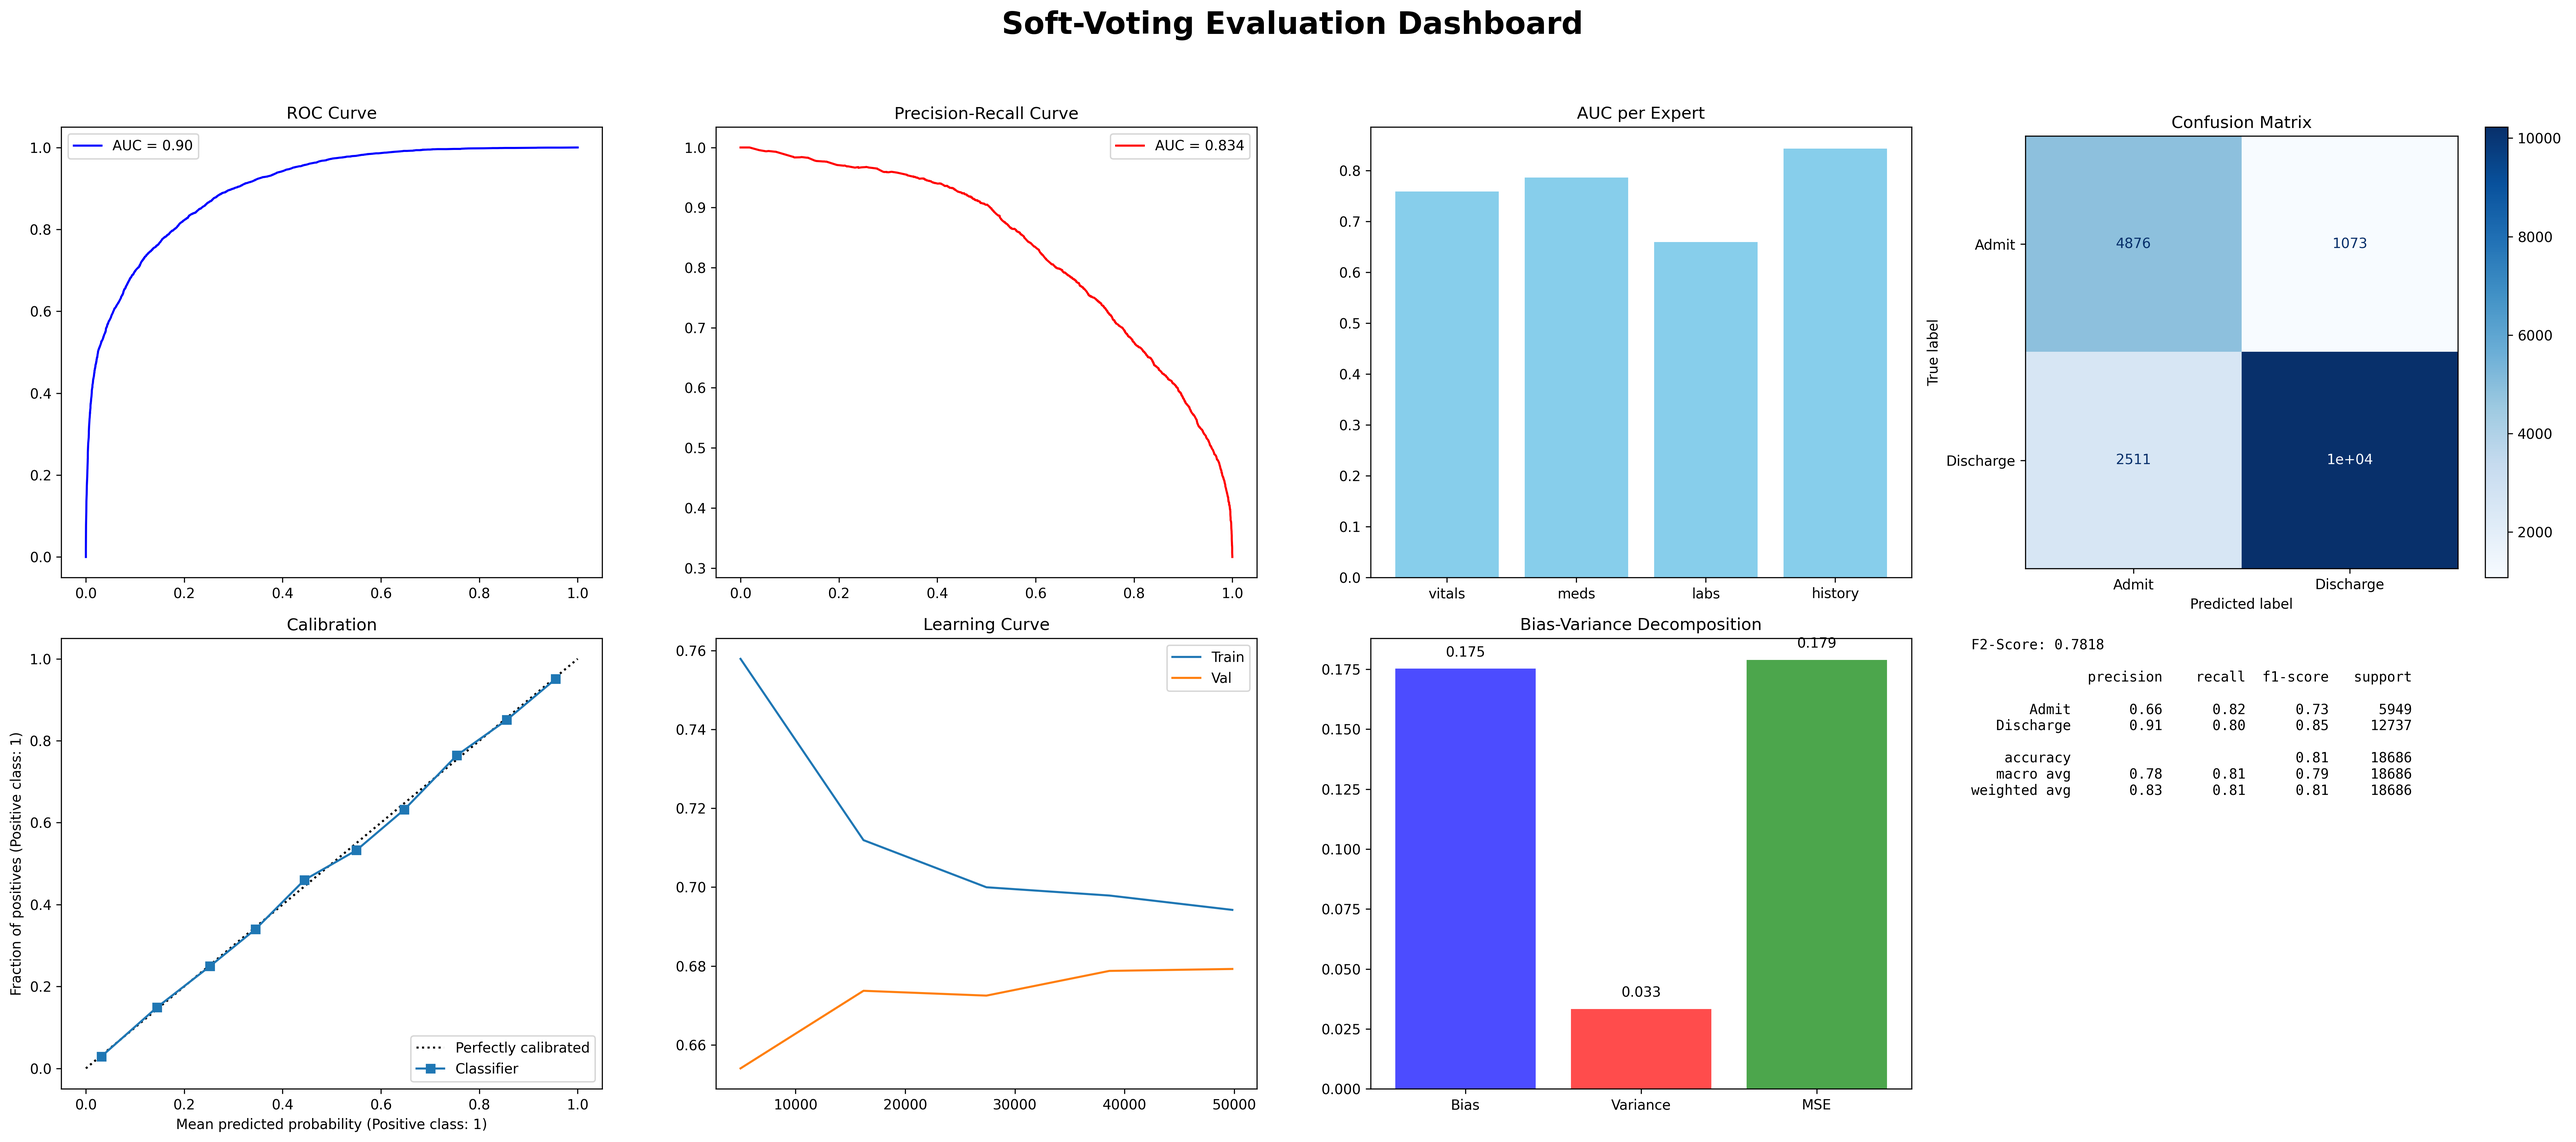
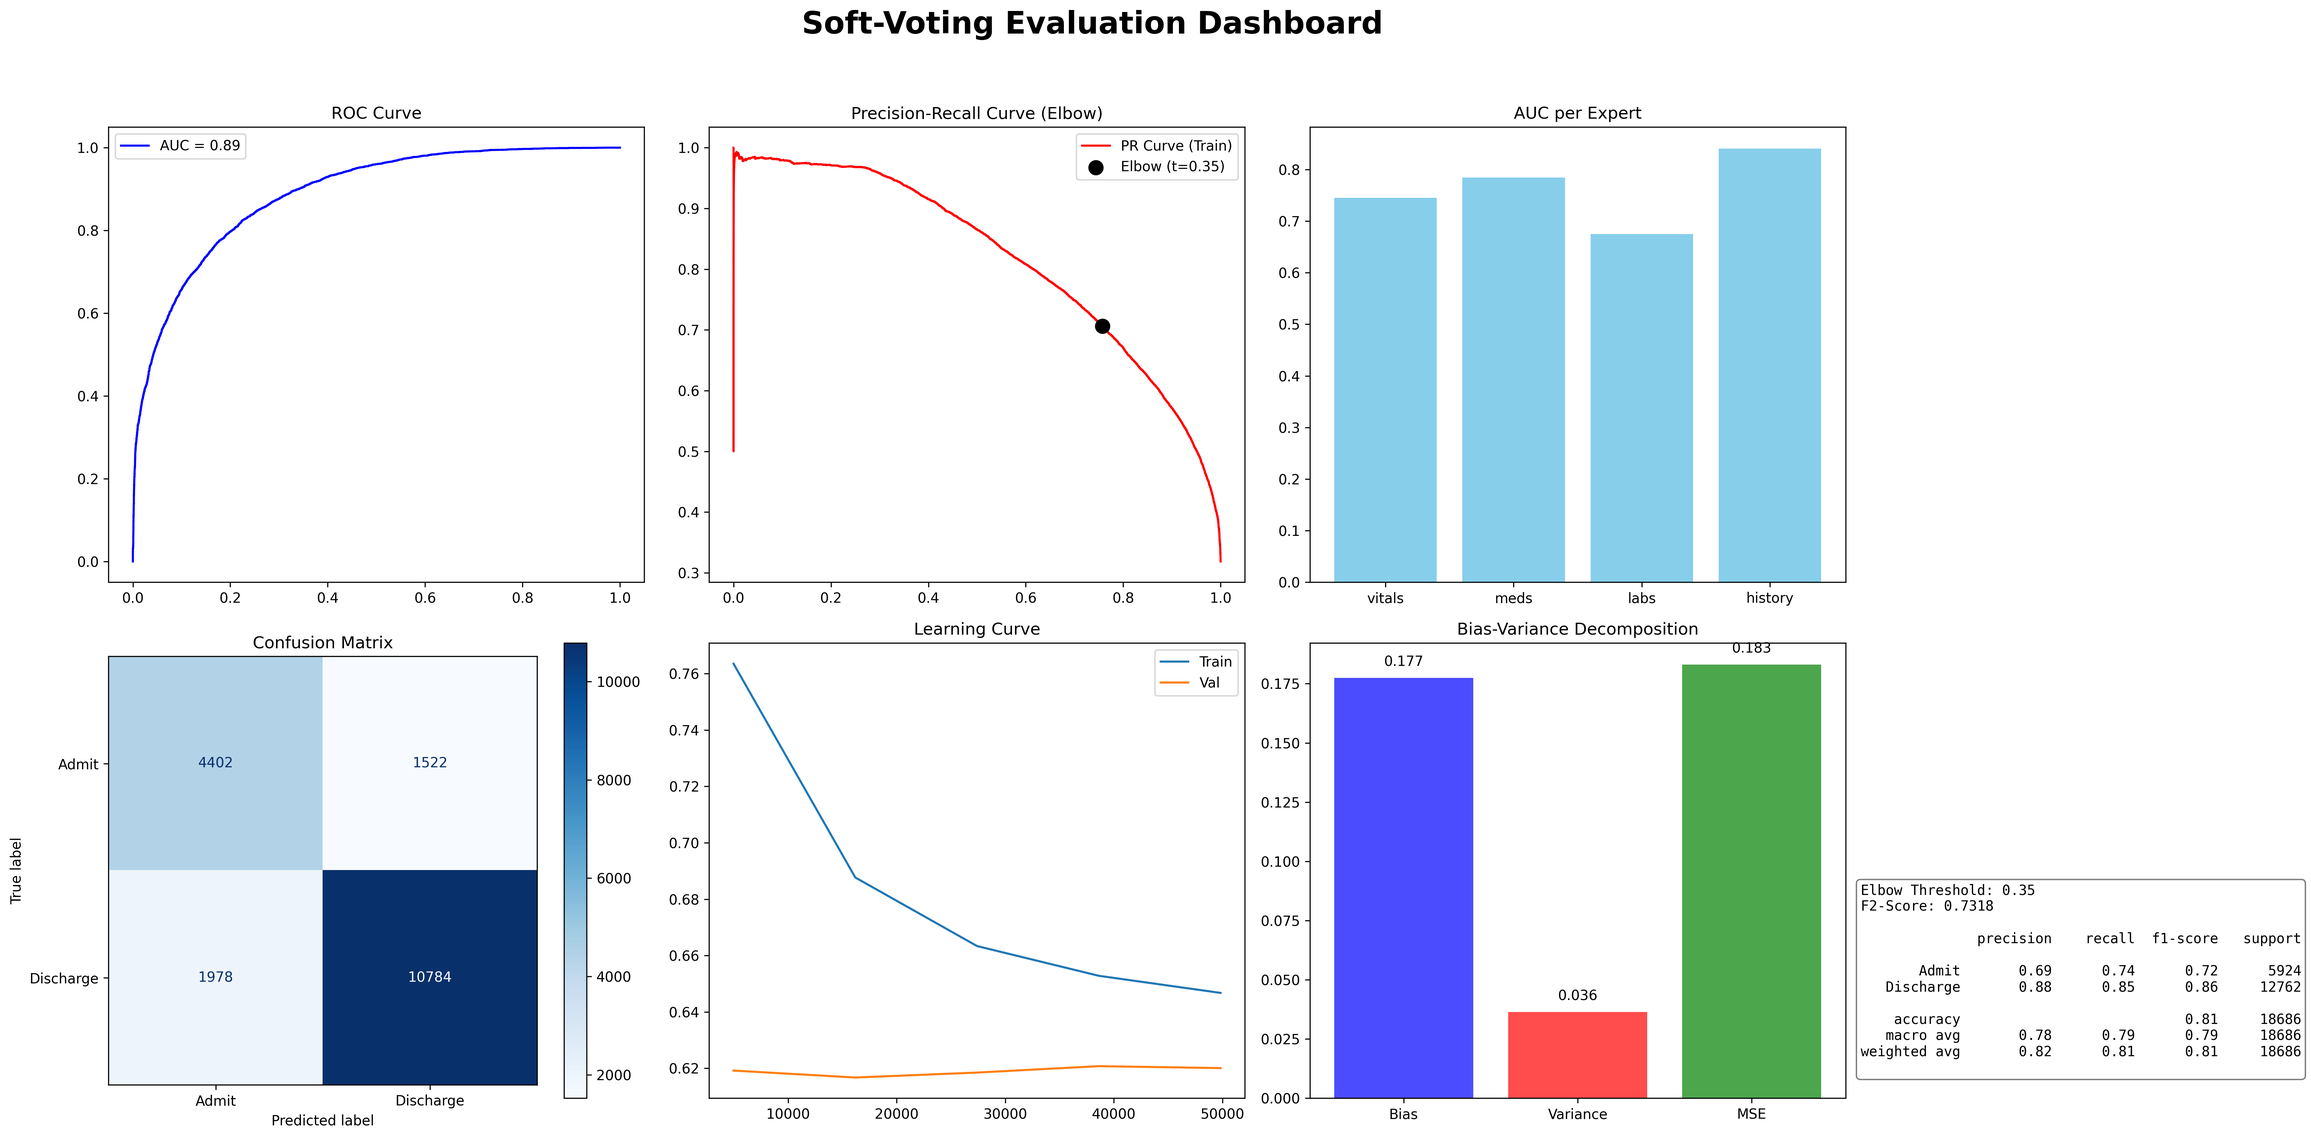
Update the soft voting classifier with new logic

diff --git a/scripts/triage_soft_voting.py b/scripts/triage_soft_voting.py
@@ -14,7 +14,6 @@ from sklearn.model_selection import train_test_split, RandomizedSearchCV, learni
 from sklearn.metrics import (roc_curve, auc, precision_recall_curve, fbeta_score, 
                              classification_report, confusion_matrix, roc_auc_score, make_scorer,
                              ConfusionMatrixDisplay)
-from sklearn.calibration import CalibrationDisplay, CalibratedClassifierCV
 from catboost import CatBoostClassifier
 from mlxtend.evaluate import bias_variance_decomp
 
@@ -28,34 +27,36 @@ df = pd.read_csv('data/subset.csv')
 X = df.drop('disposition', axis=1) 
 y = df['disposition']
 
+# Split the data first to avoid leakage in encoding and imputation
+X_train_raw, X_test_raw, y_train_raw, y_test_raw = train_test_split(X, y, test_size=0.2, random_state=42)
+
 # Then i transformed my target value into 0/1 where 0 is "Admit" and 1 is "Discharge"
-# Also i transformed every feature into numbers
 label_enc = LabelEncoder()
-y_encoded = label_enc.fit_transform(y)
-df_numeric = pd.get_dummies(X)
+y_train = label_enc.fit_transform(y_train_raw)
+y_test = label_enc.transform(y_test_raw)
 
-# Split the data into 80% training and 20% test 
-# I used stratification in order to have balanced classes for the train/test set
-X_train_raw, X_test_raw, y_train, y_test = train_test_split(
-    df_numeric, y_encoded, test_size=0.2, random_state=42, stratify=y_encoded
-)
+# Also i transformed every feature into numbers - Handling categorical columns properly after split
+X_train_numeric = pd.get_dummies(X_train_raw)
+X_test_numeric = pd.get_dummies(X_test_raw)
+# Ensure both sets have the same columns after get_dummies
+X_test_numeric = X_test_numeric.reindex(columns=X_train_numeric.columns, fill_value=0)
 
-# Handled missing values using median imputation 
-train_median = X_train_raw.median()
-X_train_imputed = X_train_raw.fillna(train_median)
-X_test_imputed = X_test_raw.fillna(train_median)
+# Handled missing values using median imputation based only on training data
+train_median = X_train_numeric.median()
+X_train_imputed = X_train_numeric.fillna(train_median)
+X_test_imputed = X_test_numeric.fillna(train_median)
 
  # Feature Selection: Apply Variance Threshold
 selector = VarianceThreshold(threshold=0.01)
 selector.fit(X_train_imputed)
-X_train_sel = pd.DataFrame(selector.transform(X_train_imputed), columns=X_train_raw.columns[selector.get_support()])
-X_test_sel = pd.DataFrame(selector.transform(X_test_imputed), columns=X_train_raw.columns[selector.get_support()])
+X_train_sel = pd.DataFrame(selector.transform(X_train_imputed), columns=X_train_numeric.columns[selector.get_support()])
+X_test_sel = pd.DataFrame(selector.transform(X_test_imputed), columns=X_train_numeric.columns[selector.get_support()])
 
-# Performed a Random forest in order to get the top 100 features
+# Performed a Random forest in order to get the top 150 features
 rf_selector = RandomForestClassifier(n_estimators=150, random_state=42, n_jobs=-1)
 rf_selector.fit(X_train_sel, y_train)
 importances = pd.Series(rf_selector.feature_importances_, index=X_train_sel.columns)
-top_features = importances.nlargest(100).index.tolist()
+top_features = importances.nlargest(150).index.tolist()
 
 # Split the features into 4 groups based on keywords
 vitals_top = [c for c in top_features if any(w in c.lower() for w in ['vital', 'sbp', 'dbp', 'pulse', 'temp', 'o2', 'hr', 'rr'])]
@@ -79,7 +80,7 @@ base_learners = [
     ('vitals_expert', Pipeline([
         ('sel', ColumnTransformer([('keep', 'passthrough', vitals_idx)], remainder='drop')),
         ('scaler', StandardScaler()), 
-        ('clf', lgb.LGBMClassifier(n_estimators=150, learning_rate=0.05, random_state=42, n_jobs=-1, verbosity=-1,num_leaves=31,reg_lambda=10)) 
+        ('clf', lgb.LGBMClassifier(n_estimators=250, learning_rate=0.05, random_state=42, n_jobs=-1, verbosity=-1,num_leaves=63,reg_lambda=20)) 
     ])),  
     ('meds_expert', Pipeline([
         ('sel', ColumnTransformer([('keep', 'passthrough', meds_idx)], remainder='drop')),
@@ -89,12 +90,12 @@ base_learners = [
     ('labs_expert', Pipeline([
         ('sel', ColumnTransformer([('keep', 'passthrough', labs_idx)], remainder='drop')),
         ('scaler', StandardScaler()),
-        ('clf', CatBoostClassifier(iterations=300, verbose=0,learning_rate=0.05,depth=6 ,thread_count=-1))
+        ('clf', CatBoostClassifier(iterations=400, verbose=0,learning_rate=0.05,depth=6 ,thread_count=-1))
     ])), 
     ('history_expert', Pipeline([
         ('sel', ColumnTransformer([('keep', 'passthrough', history_idx)], remainder='drop')),
         ('scaler', StandardScaler()),
-        ('clf', CatBoostClassifier(iterations=300, verbose=0,learning_rate=0.05,depth=6 ,thread_count=-1))
+        ('clf', CatBoostClassifier(iterations=400, verbose=0,learning_rate=0.05,depth=6 ,thread_count=-1))
     ]))
 ]
 
@@ -117,9 +118,9 @@ f2_scorer = make_scorer(fbeta_score, beta=2, pos_label=0)
 search = RandomizedSearchCV(estimator=Voting_model, param_distributions=param_distributions, 
                             n_iter=7, cv=3, scoring=f2_scorer, verbose=1, n_jobs=-1, random_state=42)
 search.fit(X_train.values, y_train) 
-#Propability Calibration applied isotonic regression to calibrate the predicted propabilities
-calibrated_model = CalibratedClassifierCV(search.best_estimator_, method='isotonic', cv=3)
-calibrated_model.fit(X_train.values, y_train)
+
+# Final model
+final_model = search.best_estimator_
 
 # Bias-Variance Decomposition (mlxtend)
 sample_size = min(5000, len(X_train))
@@ -128,7 +129,7 @@ X_sample = X_train.values[indices]
 y_sample = y_train[indices]
 
 mse, bias, var = bias_variance_decomp(
-    search.best_estimator_, 
+    final_model, 
     X_sample, y_sample, 
     X_test.values, y_test, 
     loss='0-1_loss', num_rounds=10, random_seed=42
@@ -136,59 +137,57 @@ mse, bias, var = bias_variance_decomp(
 
 # Evaluation 
 
-# Extract probalities for the Admit class
-y_prob_admit = calibrated_model.predict_proba(X_test.values)[:, 0]
-# Try 100 thresholds in order to get the one that maximizes f2 score
-thresholds=np.linspace(0,1,100)
-f2_scores = [fbeta_score(y_test, np.where(y_prob_admit > t, 0, 1), beta=1.2, pos_label=0) for t in thresholds]
-best_threshold = thresholds[np.argmax(f2_scores)]
-best_f2_score = max(f2_scores)
-# Sensitivity threshold to prioritize admissions
-y_pred_custom = np.where(y_prob_admit > best_threshold, 0, 1)
-y_test_admit = (y_test == 0).astype(int)
+# Extract probabilities for the Admit class (index 0) from the search result
+y_prob_train_admit = final_model.predict_proba(X_train.values)[:, 0]
+y_prob_test_admit = final_model.predict_proba(X_test.values)[:, 0]
 
-# f2 scorer
+# Elbow method to find optimal threshold
+precision_tr, recall_tr, thresholds_tr = precision_recall_curve(y_train, y_prob_train_admit, pos_label=0)
+distances = np.sqrt((1 - precision_tr)**2 + (1 - recall_tr)**2)
+best_threshold = thresholds_tr[np.argmin(distances)]
+
+# Final predictions using the elbow-optimized threshold
+y_pred_custom = np.where(y_prob_test_admit > best_threshold, 0, 1)
+
+# Metrics for reporting
 f2_admit = fbeta_score(y_test, y_pred_custom, beta=2, pos_label=0)
-# Classification report
 report = classification_report(y_test, y_pred_custom, target_names=label_enc.classes_)
-# Confusion Matrix
 cm = confusion_matrix(y_test, y_pred_custom)
 
-# Learning Curve
+# Learning Curve using the best estimator
 train_sizes, train_scores, val_scores = learning_curve(
-    estimator=calibrated_model, X=X_train.values, y=y_train, train_sizes=np.linspace(0.1, 1.0, 5),
+    estimator=final_model, X=X_train.values, y=y_train, train_sizes=np.linspace(0.1, 1.0, 5),
     cv=3, scoring=f2_scorer, n_jobs=-1, random_state=42
 )
 train_mean = np.mean(train_scores, axis=1)
 val_mean = np.mean(val_scores, axis=1)
 
-# Dashboard Setup
-fig, axes = plt.subplots(2, 4, figsize=(26, 12))
+# Dashboard Setup (Removed Calibration Plot)
+fig, axes = plt.subplots(2, 3, figsize=(22, 12))
 fig.suptitle('Soft-Voting Evaluation Dashboard', fontsize=22, fontweight='bold', y=0.98)
 
-# ROC & PR Curves
-fpr, tpr, _ = roc_curve(y_test, y_prob_admit, pos_label=0)
+# ROC Curve
+fpr, tpr, _ = roc_curve(y_test, y_prob_test_admit, pos_label=0)
 axes[0, 0].plot(fpr, tpr, color='blue', label=f'AUC = {auc(fpr, tpr):.2f}')
 axes[0, 0].set_title('ROC Curve'); axes[0, 0].legend()
 
-precision, recall, _ = precision_recall_curve(y_test, y_prob_admit, pos_label=0)
-axes[0, 1].plot(recall, precision, color='red', label=f'AUC = {auc(recall, precision):.3f}')
-axes[0, 1].set_title('Precision-Recall Curve'); axes[0, 1].legend()
+# PR Curve with Elbow
+axes[0, 1].plot(recall_tr, precision_tr, color='red', label='PR Curve (Train)')
+idx = np.argmin(distances)
+axes[0, 1].scatter(recall_tr[idx], precision_tr[idx], color='black', s=100, label=f'Elbow (t={best_threshold:.2f})', zorder=5)
+axes[0, 1].set_title('Precision-Recall Curve (Elbow)'); axes[0, 1].legend()
 
 # Expert Performance
-expert_names = [name.replace('_expert', '') for name, _ in calibrated_model.estimator.estimators]
-expert_aucs = [roc_auc_score(y_test, calibrated_model.estimator.estimators_[i].predict_proba(X_test.values)[:, 1]) for i in range(len(expert_names))]
+expert_names = [name.replace('_expert', '') for name, _ in final_model.estimators]
+expert_aucs = [roc_auc_score(y_test, final_model.estimators_[i].predict_proba(X_test.values)[:, 1]) for i in range(len(expert_names))]
 axes[0, 2].bar(expert_names, expert_aucs, color='skyblue')
 axes[0, 2].set_title('AUC per Expert')
 
 # Confusion Matrix
-ConfusionMatrixDisplay(confusion_matrix=cm, display_labels=label_enc.classes_).plot(ax=axes[0, 3], cmap='Blues')
-axes[0, 3].set_title('Confusion Matrix')
+ConfusionMatrixDisplay(confusion_matrix=cm, display_labels=label_enc.classes_).plot(ax=axes[1, 0], cmap='Blues')
+axes[1, 0].set_title('Confusion Matrix')
 
-# Calibration & Learning Curves
-CalibrationDisplay.from_predictions(y_test_admit, y_prob_admit, n_bins=10, ax=axes[1, 0])
-axes[1, 0].set_title('Calibration')
-
+# Learning Curve
 axes[1, 1].plot(train_sizes, train_mean, label='Train'); axes[1, 1].plot(train_sizes, val_mean, label='Val')
 axes[1, 1].set_title('Learning Curve'); axes[1, 1].legend()
 
@@ -197,23 +196,23 @@ axes[1, 2].bar(['Bias', 'Variance', 'MSE'], [bias, var, mse], color=['blue', 're
 axes[1, 2].set_title('Bias-Variance Decomposition')
 for i, v in enumerate([bias, var, mse]): axes[1, 2].text(i, v + 0.005, f'{v:.3f}', ha='center')
 
-# Metrics Text
-axes[1, 3].axis('off')
-axes[1, 3].text(-0.1, 1.0, f"F2-Score: {f2_admit:.4f}\n\n{report}", fontsize=10, family='monospace', va='top')
+# Metrics Text 
+plt.figtext(0.85, 0.25, f"Elbow Threshold: {best_threshold:.2f}\nF2-Score: {f2_admit:.4f}\n\n{report}", 
+            fontsize=10, family='monospace', va='top', bbox=dict(boxstyle='round', facecolor='white', alpha=0.5))
+
+plt.tight_layout(rect=[0, 0.03, 0.85, 0.95])
 
 # Save model artifacts for future use
 model_artifacts = {
-    'model': calibrated_model,
+    'model': final_model,             
     'label_encoder': label_enc,
     'train_median': train_median,
+    'selector': selector,              
     'top_features': top_features,
     'best_threshold': best_threshold
 }
 
 joblib.dump(model_artifacts, 'models/soft_voting_artifacts.pkl')
 
-plt.tight_layout(rect=[0, 0.03, 1, 0.95])
-# Save the dashboard 
 plt.savefig('plots/soft_voting_eval.png', dpi=300, bbox_inches='tight')
-# Show the dashboard
 plt.show()
